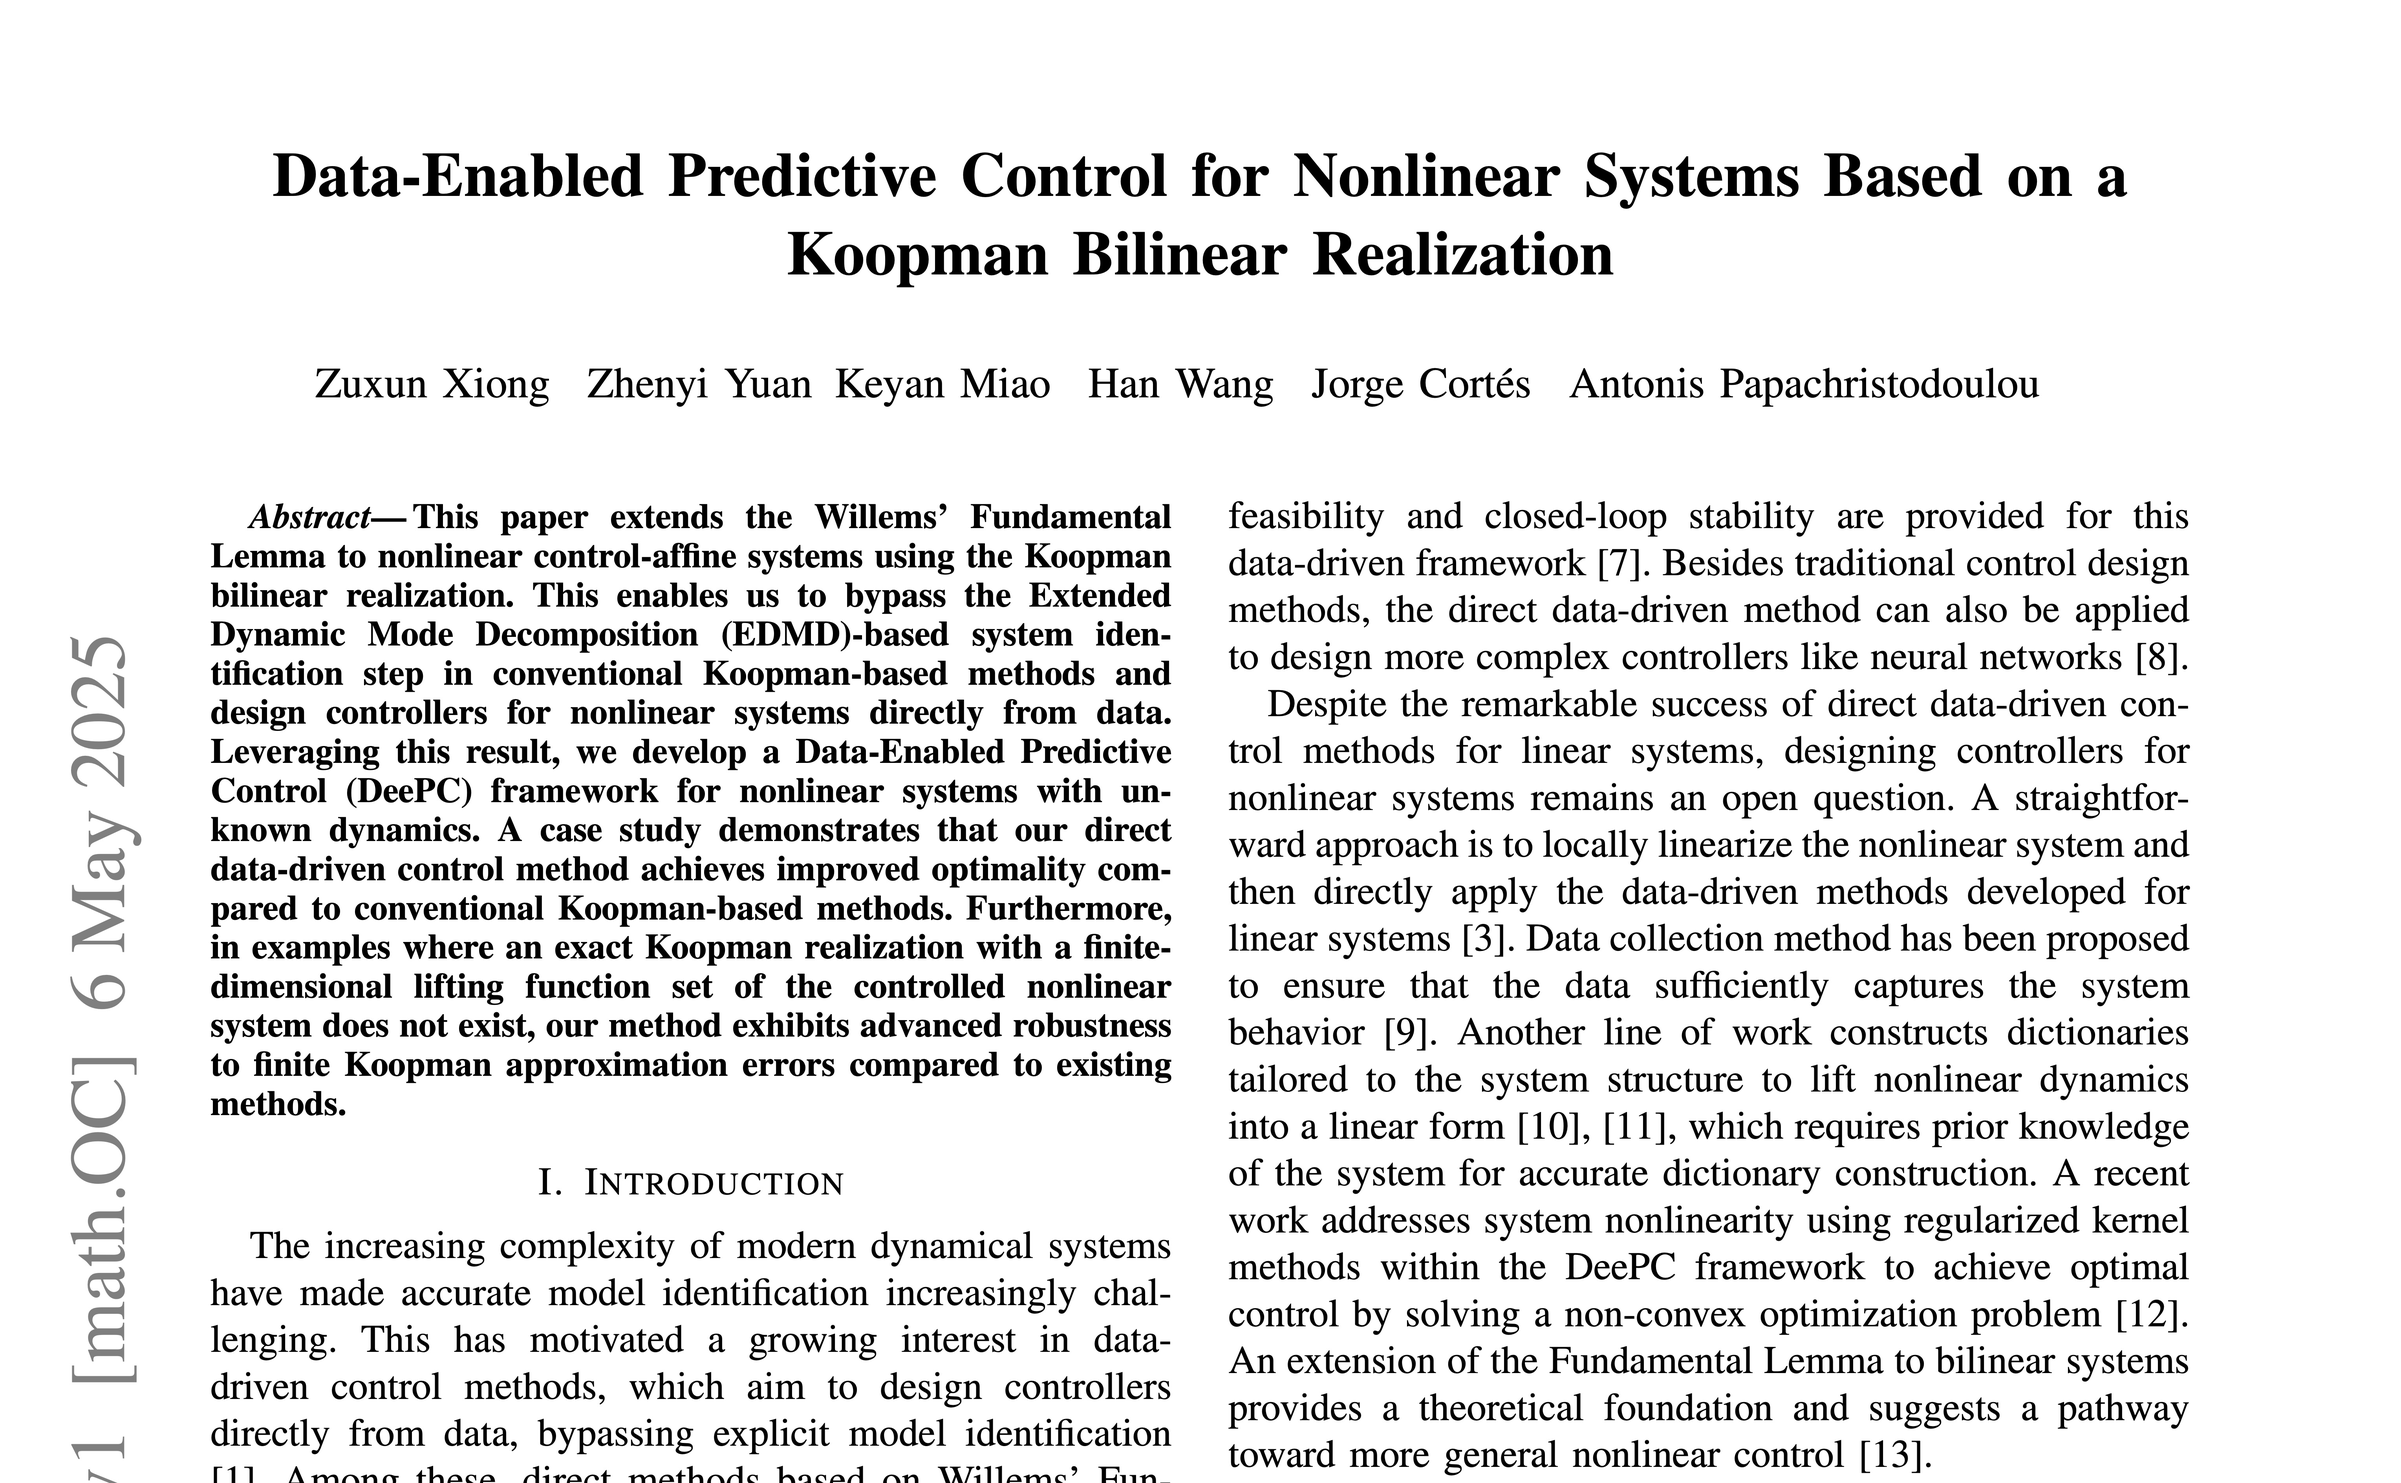
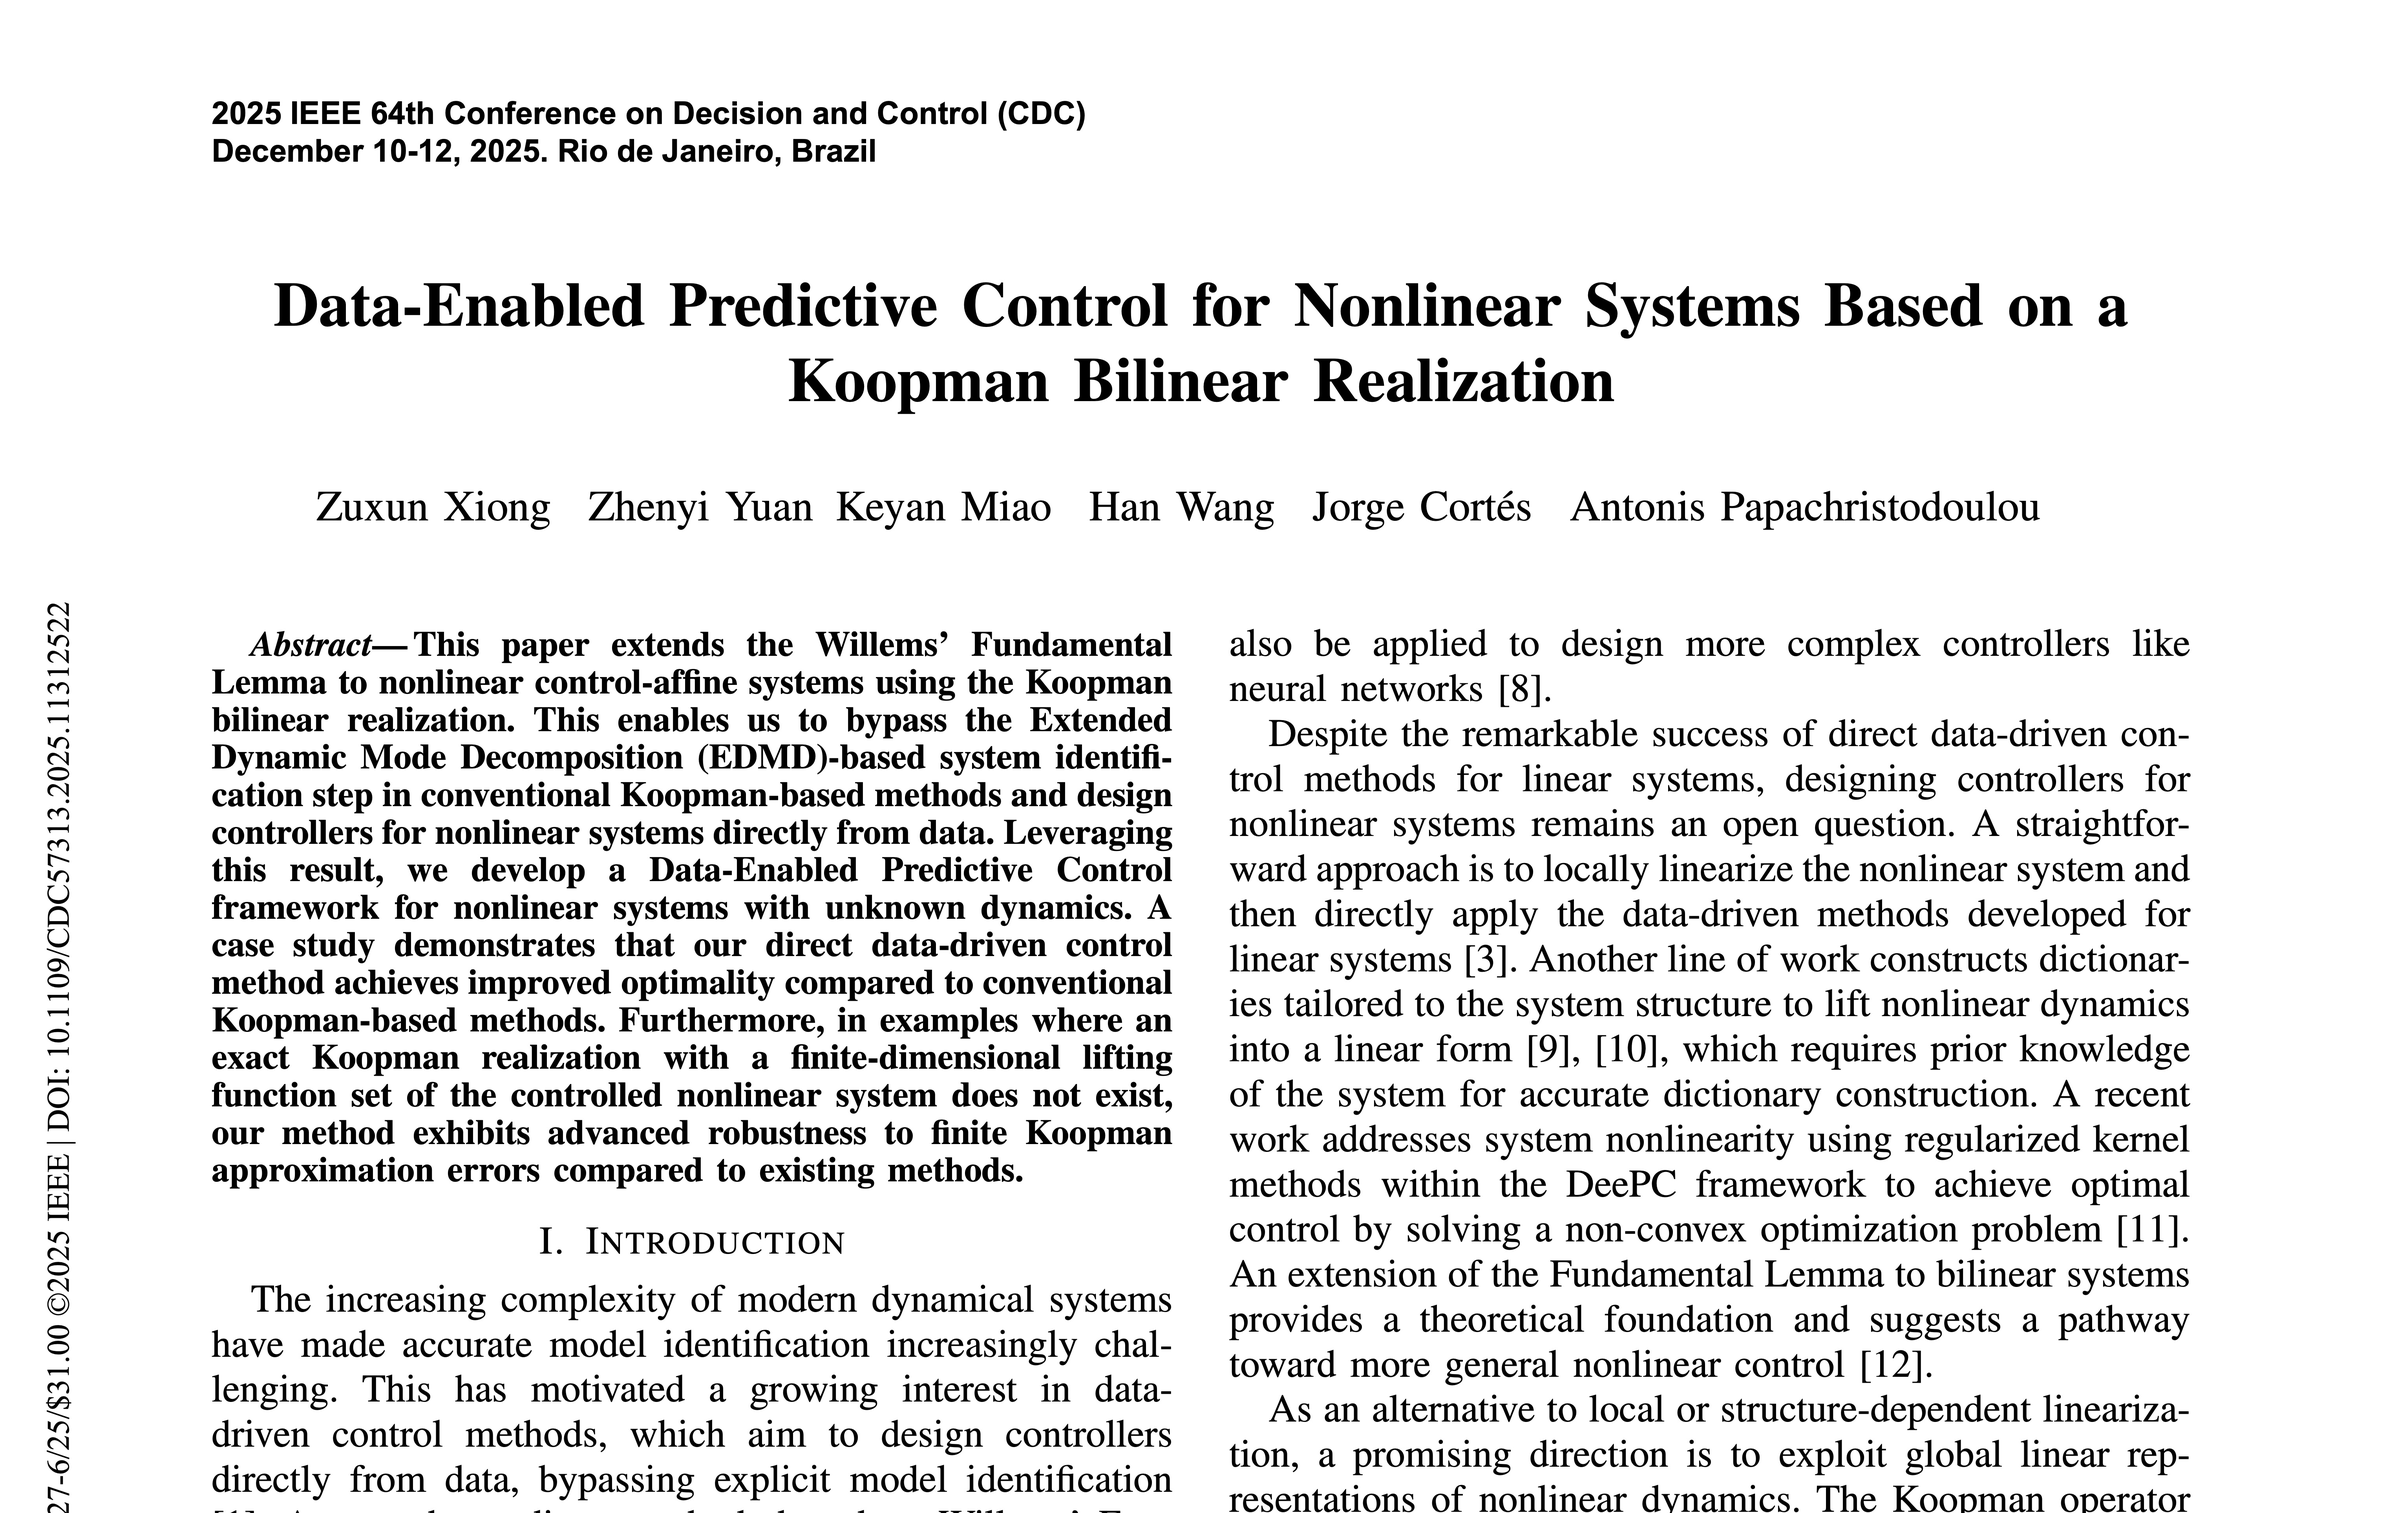
Update Pub

diff --git a/research.html b/research.html
@@ -92,7 +92,7 @@ Another on <i>machine learning</i>, where the identification is performed using 
 
 <li><p>Z. Xiong, Z. Yuan, K. Miao, H. Wang, J. Cortés, and A. Papachristodoulou, “<strong>Data-enabled predictive control for
     nonlinear systems based on a Koopman bilinear realization</strong>,” in <i>IEEE Conf. on Decision and Control</i>, Rio
-de Janeiro, Brazil, Dec. 2025. [<a href="https://arxiv.org/pdf/2505.03346" target=&ldquo;blank&rdquo;>arXiv</a>] </p></li>
+de Janeiro, Brazil, Dec. 2025. [<a href="https://ieeexplore.ieee.org/document/11312522" target="blank">IEEE Xplore</a>, <a href="https://arxiv.org/pdf/2505.03346" target=&ldquo;blank&rdquo;>arXiv</a>] </p></li>
 
 <li><p>Z. Yuan and J. Cortés, “<strong>Data-driven optimal control of bilinear systems</strong>,” <i>IEEE Control Systems Letters</I>, 6: 2479-2484, 2022. 
 [<a href="https://ieeexplore.ieee.org/abstract/document/9749761" target="blank">IEEE Xplore</a>, <a href="https://arxiv.org/abs/2112.15510" target="blank">arXiv</a>] 

diff --git a/index.html b/index.html
@@ -133,7 +133,7 @@ Prior to Ph.D., I studied at the Honors School of HIT, where I received the B.S.
 
 	<tr>
 
-	    <td> IEEE Conf. on Decision and Control (2025) [<a href="https://arxiv.org/pdf/2505.03346" target=&ldquo;blank&rdquo;>arXiv</a>] </td> <td>
+	    <td> IEEE Conf. on Decision and Control (2025) [<a href="https://ieeexplore.ieee.org/document/11312522" target="blank">IEEE Xplore</a>, <a href="https://arxiv.org/pdf/2505.03346" target=&ldquo;blank&rdquo;>arXiv</a>] </td> <td>
 
 	    <td> Transactions on Smart Grid (2025) [<a href="https://ieeexplore.ieee.org/document/11164977" target="blank">IEEE Xplore</a>, <a href="https://arxiv.org/abs/2507.18158" target=&ldquo;blank&rdquo;>arXiv</a>] </td> <td>
 
